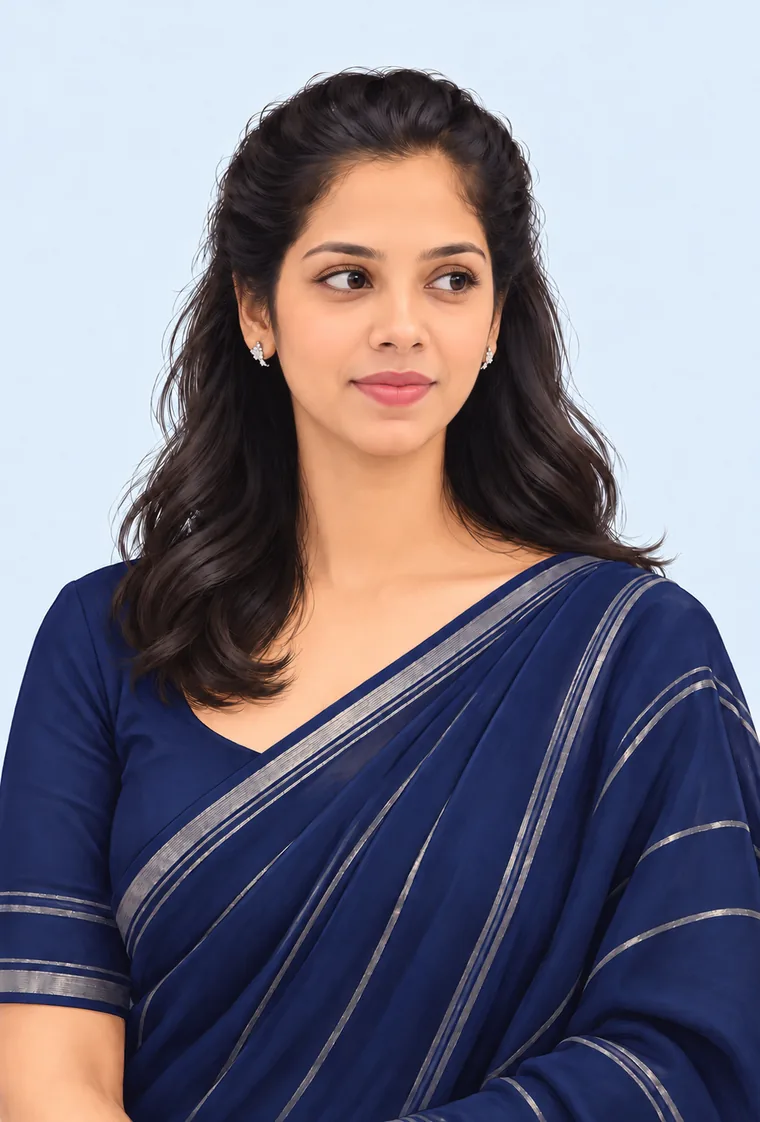
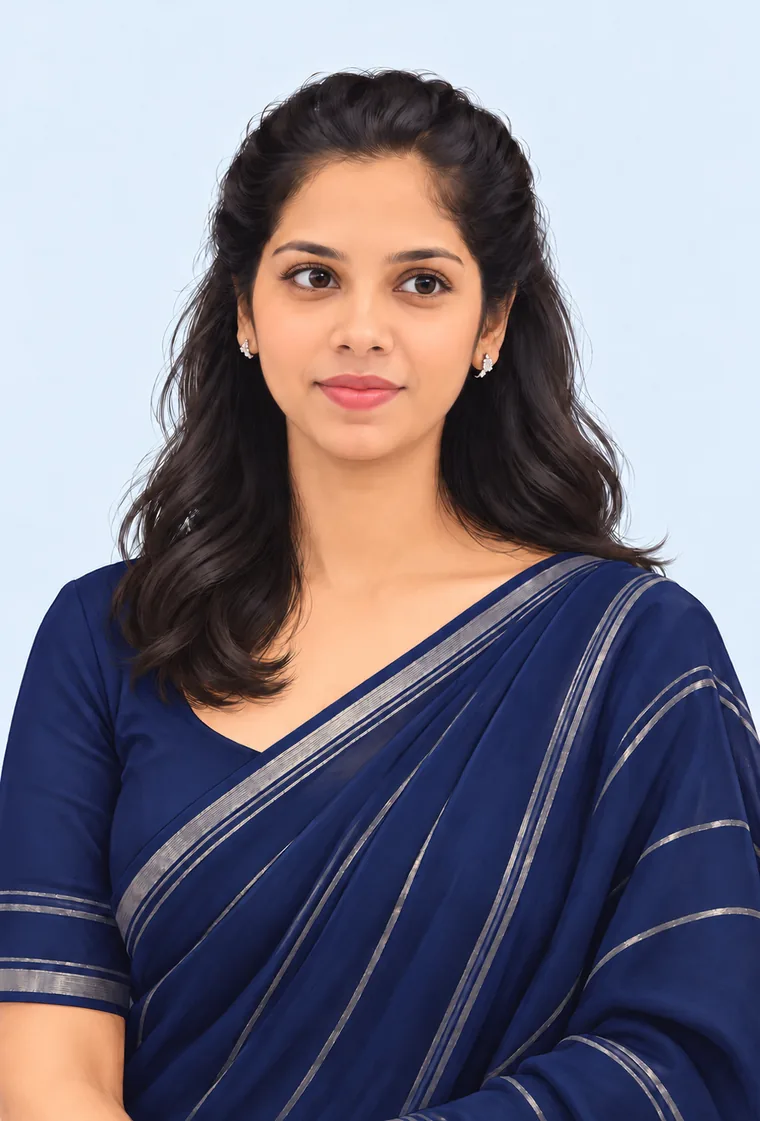
Fix the right side of the head turn
Drop Codex frame 32: its face is longer and sharper and it is far from
every other frame, so the last step of the turn looked like a different
person. Frames 24-28 were all about the same angle (28 swung back), and
20 -> 24 was the biggest jump in the turn. The right side is now
20 -> 22 -> 24 -> 29 -> 31, and every position comes from the measured
head angle instead of even spacing.

diff --git a/README.md b/README.md
@@ -30,9 +30,9 @@ Crop boxes are at the top of the script if a new photo needs reframing.
 
 ## Head turn
 
-The hero scrubs through 11 illustrated frames in `assets/turn/` (`000.webp … 010.webp`) as the cursor moves, or as you swipe on a phone. `frames.json` holds the count, the straight-on frame (`front`: 5) and each frame's head angle (`positions`, -1 left … +1 right). `front.webp` is shown before the script loads.
+The hero scrubs through 10 illustrated frames in `assets/turn/` (`000.webp … 009.webp`) as the cursor moves, or as you swipe on a phone. `frames.json` holds the count, the straight-on frame (`front`: 5) and each frame's head angle (`positions`, -1 left … +1 right). `front.webp` is shown before the script loads.
 
-The frames come from a 33-frame Codex set (2026-10-09, navy saree), converted from 1033×1523 PNG to 760 px WebP. Only 11 were kept (`source_frames` in `frames.json` lists the original numbers). The rest were dropped because 14 of them repeated the same strong left turn with slightly different faces, and a few front views were near-duplicates, which made her flicker instead of turning. To swap in a new set:
+The frames come from a 33-frame Codex set (2026-10-09, navy saree), converted from 1033×1523 PNG to 760 px WebP. Only 10 were kept (`source_frames` in `frames.json` lists the original numbers). The rest were dropped because 14 of them repeated the same strong left turn with slightly different faces, several front and right views were near-duplicates (24–28 are all about the same angle), and the last frame (32) has a different, longer face. The `positions` come from measuring how far each frame's face has moved from the front frame toward the far-left/far-right one, not from even spacing. To swap in a new set:
 
 ```bash
 pip install "rembg[cpu]" pillow
